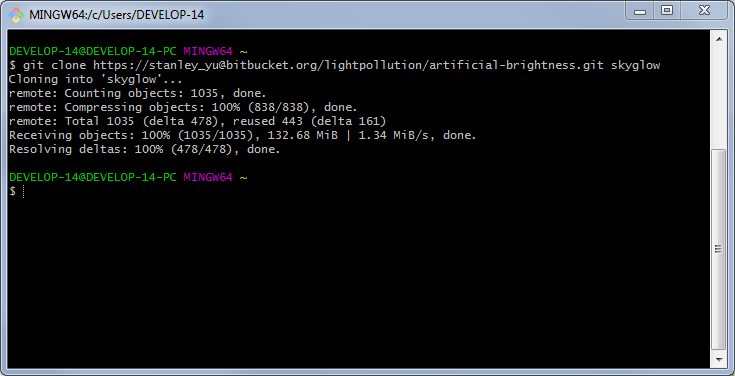
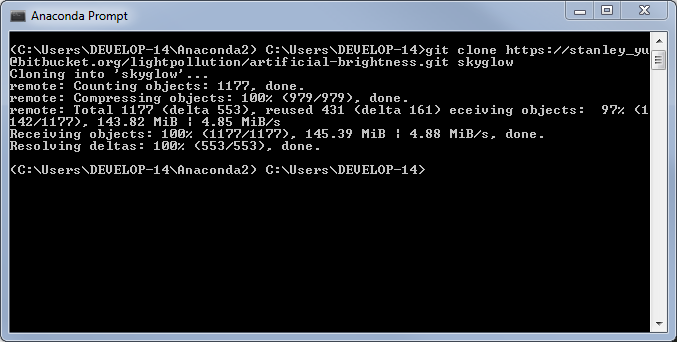
saving more methdology edits

Changed region(s): [[0.0, 0.0, 1.0, 1.0]]

diff --git a/docs/source/method.rst b/docs/source/method.rst
@@ -2,7 +2,7 @@
 **Methodology**
 ===============
 
-This page gives insight into the way the computer model applies the physics and geometry of light propagation. Although not necessary to operate the program, understanding the methodology offers benefits for anyone looking to improve SET or use it for academic purposes.
+This page gives insight into the way the computer model applies the physics and geometry of light propagation. It involves extensive applications of spherical trigonometry and programming, and it may be necessary to review key concepts. Although not necessary to operate the program, understanding the methodology offers benefits for anyone looking to improve SET or use it for academic purposes.
 
 **Kernel Creation**
 -------------------
@@ -21,4 +21,20 @@ The kernel creation process is executed in ``main`` in lines 30-38::
         array_to_geotiff(propkernel, kerneltiffpath, filein)
         logger.info("time for prop function ubreak 10: %s", totaltime)
 
-The block calls ``fsum_2d``, which goes from line 109-230 and produces the array that serves as the light propagation kernel. ``fsum_2d`` begins by gathering several inputs: regional latitude, Earth radius, and the array of beta angles, which depends on the observer's azimuth angle.
+The block calls ``fsum_2d``, which goes from line 109-230 and produces the array that serves as the light propagation kernel. ``fsum_2d`` begins by gathering several inputs: regional latitude, Earth radius, and the array of beta angles. By applying the `haversine formula <https://en.wikipedia.org/wiki/Haversine_formula>`_, the program then creates an array of the distances from the observation site to the light sources along an ellipsoid surface, *D*, from the latitude and Earth radius.
+
+.. figure:: _static/cinzano_diagram.PNG
+   :align: right
+   :figwidth: 500
+
+   *Diagram of the light propagation model created by Cinzano. Shows the relationships between the observation site and the light source. Taken and modified from REF 2, Fig. 6, p.648.*
+
+Additionally, an array of beta angles, :math:`\beta`, is created that corresponds with the array of great circle distances. 
+
+References:
+
+(1) Falchi, F., P. Cinzano, D. Duriscoe, C.C.M. Kyba, C.D. Elvidge, K. Baugh, B.A. Portnov, N.A. Rybnikova and R. Furgoni, 2016. The new workd atlas of artificial night sky brightness. Sci. Adv. 2.
+
+(2) Cinzano, P., F. Falchi, C.D. Elvidge and  K.E. Baugh, 2000. The artificial night sky brightness mapped from DMSP satellite Operational Linescan System measurements. Mon. Not. R. Astron. Soc. 318.
+
+(3) Garstang, R.H., 1989. Night-sky brightness at observatories and sites. Pub. Astron. Soc. Pac. 101.

diff --git a/docs/source/usr/installation.rst b/docs/source/usr/installation.rst
@@ -22,31 +22,27 @@ descriptive as possible in our installation guide for our users. This step-by-st
 
 2. Download `Git <https://git-scm.com/downloads>`_
 
-3. Open Git Bash and clone the SET repository by typing::
+3. Open Anaconda Prompt and clone the SET repository by typing::
 	
-	$ git clone <SET Repository Link> skyglow
+	git clone <SET Repository Link> skyglow
 
 .. figure:: ../_static/install_git_clone.PNG
    :figwidth: 750
 
-   *Example of cloning the repository from Bitbucket. SET's repository link can be found on its Github page, under the green "Clone or download" button. Your link will be unique to your account.*
+   *Example of cloning the repository from Bitbucket, a we-based hsoting service for Git similar to Github. SET's repository link can be found on its Github page, under the green "Clone or download" button. Your link will be unique to your account.*
 
-4. Install GDAL::
+4. Switch into skyglow and install the geospatial environment, which contains all the necessary packages::
 
-    $ conda install GDAL
+	cd skyglow
+	conda env create -f geospatial_env.yml
 
-5. Switch into skyglow and install the geospatial environment, which contains all the necessary packages::
+5. Activate the environment (must be done every time you open the prompt)::
 
-	$ cd skyglow
-	$ conda env create -f geospatial_env.yml
+	activate geospatial
 
-6. Activate the environment (must be done every time you open Git Bash)::
+6. Run the program::
 
-	$ source activate geospatial
-
-7. Run the program::
-
-	$ python Skyglow.py
+	python Skyglow.py
 
 **Required Packages**
 ----------------------
